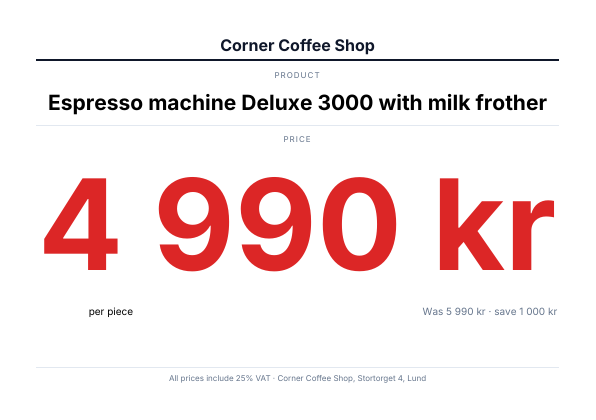
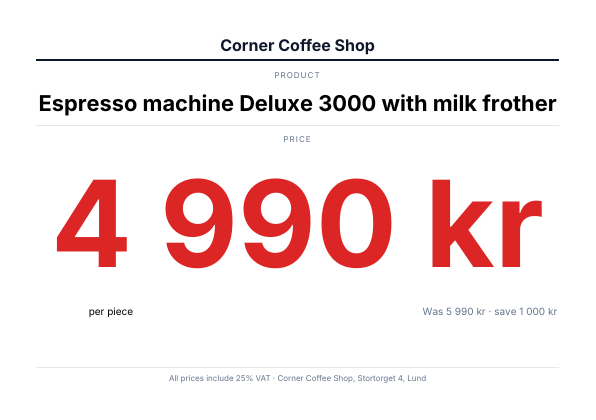
feat(forms): font_size: :fit, the fitted size written to /DA (#219)
* feat(forms): font_size: :fit, the fitted size written to /DA

font_size: :auto writes 0 Tf, which Firefox's editable input shows at
9 px. :fit sizes the value as :auto does and writes the number, so
every viewer reads a size. The price card example uses it, so its
render digest in spec/fixtures/renders/main.json is re-recorded (that
entry alone) and its docs PNG re-rendered.

Closes #218

Claude-Session: https://claude.ai/code/session_01MzExmEJTN1oyAQEHRhscNU

* docs: name font_size: :fit in the README's reference and testing sections

Also says which cells of the viewer table were not checked, and the
:fit spec formats the expected size as /DA does.

Refs #218

Claude-Session: https://claude.ai/code/session_01MzExmEJTN1oyAQEHRhscNU

diff --git a/docs/app/views/docs/pages/forms.rb b/docs/app/views/docs/pages/forms.rb
@@ -92,7 +92,7 @@ class Views::Docs::Pages::Forms < DocsUI::Page
           [ "at", "[x, y]", "nil", "A page position in points from the top left corner, outside the flow." ],
           [ "read_only", "Boolean", "false", [ :md, "The reader cannot change the value. A read-only field also keeps only its value's glyphs in the font; see [Appearance and fonts](#appearance-and-fonts)." ] ],
           [ "required", "Boolean", "false", "Sets the field's Required flag, which viewers use to highlight it and to check it when the form is submitted." ],
-          [ "font_size", "Numeric or :auto", "10", [ :md, "The size of the value a text field or select box shows, in points; `:auto` for the largest that fits. See [Alignment, colour and auto-size](#alignment-colour-and-auto-size)." ] ],
+          [ "font_size", "Numeric, :auto or :fit", "10", [ :md, "The size of the value a text field or select box shows, in points; `:auto` for the largest that fits, chosen again by a viewer when it redraws; `:fit` for that size written as a number. See [Alignment, colour and auto-size](#alignment-colour-and-auto-size)." ] ],
           [ "border", "Color", "\"#9CA3AF\"", [ :md, "The frame's stroke; `nil` for none. A signature field draws its rule in it." ] ],
           [ "background", "Color", "\"#FFFFFF\"", [ :md, "The frame's fill; `nil` for none." ] ],
           [ "radius", "Numeric", "2", "The frame's corner radius. A radio button is always a circle." ],
@@ -217,7 +217,7 @@ class Views::Docs::Pages::Forms < DocsUI::Page
       md <<~'MD'
         ```ruby
         text_style(weight: :bold) do
-          text_field "price", value: "4 990 kr", align: :center, color: "#DC2626", font_size: :auto,
+          text_field "price", value: "4 990 kr", align: :center, color: "#DC2626", font_size: :fit,
                               max_font_size: 120, height: 150, border: nil, background: nil
         end
         select "unit", options: ["per piece", "per kg"], value: "per piece", align: :center
@@ -234,38 +234,46 @@ class Views::Docs::Pages::Forms < DocsUI::Page
           [ "align", ":left, :center, :right", ":left", [ :md, "Written as `/Q` (1 or 2; nothing for `:left`). The value is placed within the field's box less its padding, each line of a `multiline:` value by its own width. A `comb:` field ignores it: its cells place each character." ] ],
           [ "color", "Color", "\"#000000\"", [ :md, "Any colour the gem takes. The colour operator of `/DA` (`0 g` for black, `rg` for RGB, `k` for CMYK) and the colour the value is painted in. Under `monochrome` it is checked like any other colour; under PDF/A a CMYK one is reported." ] ],
           [ "font_size: :auto", "", "", [ :md, "Writes `0 Tf` in `/DA`. The appearance draws the largest size, in tenths of a point, at which one line fits the field's height and width; a `comb:` field's widest character fits its cell; a `multiline:` value, wrapped to the width, fits the height." ] ],
-          [ "min_font_size", "Numeric", "4", [ :md, "With `font_size: :auto`: the smallest size drawn. A value that does not fit at it is clipped." ] ],
-          [ "max_font_size", "Numeric", "the height", [ :md, "With `font_size: :auto`: the largest size drawn." ] ]
+          [ "font_size: :fit", "", "", [ :md, "The size `:auto` draws, written in `/DA` as a number (`/F1 96 Tf`), so a viewer that redraws the field keeps it. A longer value typed into the field afterwards is clipped or scrolls, as in any fixed-size field, and an empty field is sized to its bound: a field left empty to be filled in wants `:auto`. `Inspector#layout` reports the number. A field placed in several places writes the first's size; each place draws its own." ] ],
+          [ "min_font_size", "Numeric", "4", [ :md, "With `font_size: :auto` or `:fit`: the smallest size drawn. A value that does not fit at it is clipped." ] ],
+          [ "max_font_size", "Numeric", "the height", [ :md, "With `font_size: :auto` or `:fit`: the largest size drawn." ] ]
         ]
       )
 
       md <<~'MD'
         `min_font_size:` and `max_font_size:` are not in the file: a viewer that redraws the field sizes
-        it by its own rule, and may draw a short value larger than the cap.
+        it by its own rule, and may draw a short value larger than the cap. With `:fit` the chosen size
+        is in the file, so a viewer draws the value no larger than the cap.
 
         ### What viewers do when they redraw
 
         Every viewer shows the appearance as stationery drew it. A viewer redraws a field from `/DA` and
         `/Q` when it opens a form with `NeedAppearances` (every render without a conformance level or a
-        signature) and after an edit. Read from each engine's source on 2026-10-01:
+        signature) and after an edit. Firefox draws two things: the appearance pdf.js generates from
+        `/DA` (`src/core/annotation.js`), which is what it prints, and an HTML input it shows while the
+        field is edited (`src/display/annotation_layer.js`, `_setTextStyle`). That input is set in the
+        browser's own face, never the PDF's, so a bold field shows regular text while it is edited; no
+        file can change that. Read from each engine's source on 2026-10-01:
 
-        | Viewer | `align:` (`/Q`) | `color:` | `font_size: :auto`, one line | `font_size: :auto`, `multiline:` |
-        | --- | --- | --- | --- | --- |
-        | Firefox (pdf.js) | Yes | Yes | Fits the height and the width, no floor or cap | Shrinks until the lines fit, no cap |
-        | Chrome, Edge (PDFium) | Yes; not a select's (`GenerateComboBoxAP` sets no alignment) | Yes | The largest of 4, 6, 8, 9, 10, 12, 14 … 144 pt that fits | 4 to 12 pt |
-        | Evince, Okular (poppler) | Yes | Yes | Fits the height and the width, whole points | The largest of 20 down to 1 pt that fits |
-        | MuPDF | Yes | Yes | Fits the width, capped at the height | 12 pt, not shrunk |
-        | Acrobat, Acrobat Reader | Not tested | Not tested | Reported: the size that fills the height, shrinking as the text grows | Not tested |
-        | Preview (macOS) | Not tested | Not tested | Not tested | Not tested |
+        | Viewer | `align:` (`/Q`) | `color:` | `font_size: :auto`, one line | `font_size: :auto`, `multiline:` | `font_size: :fit` or a number |
+        | --- | --- | --- | --- | --- | --- |
+        | Firefox (pdf.js), appearance | Yes | Yes | Fits the height and the width, no floor or cap | Shrinks until the lines fit, no cap | The number |
+        | Firefox (pdf.js), input while editing | Not checked | Not checked | 9 px (`DEFAULT_FONT_SIZE`), capped as a number is | 9 px, capped as a number is | The number, capped at (height − 2) ÷ 1.35, in the browser's face; `multiline:` caps each line's share of the height the same way |
+        | Chrome, Edge (PDFium) | Yes; not a select's (`GenerateComboBoxAP` sets no alignment) | Yes | The largest of 4, 6, 8, 9, 10, 12, 14 … 144 pt that fits | 4 to 12 pt | The number |
+        | Evince, Okular (poppler) | Yes | Yes | Fits the height and the width, whole points | The largest of 20 down to 1 pt that fits | The number, not shrunk |
+        | MuPDF | Yes | Yes | Fits the width, capped at the height | 12 pt, not shrunk | The number |
+        | Acrobat, Acrobat Reader | Not tested | Not tested | Reported: the size that fills the height, shrinking as the text grows | Not tested | Not tested |
+        | Preview (macOS) | Not tested | Not tested | Not tested | Not tested | Not tested |
 
-        Sources: pdf.js `src/core/annotation.js` (`_getAppearance`, `_computeFontSize`) and
-        `src/core/default_appearance.js`; PDFium `core/fpdfdoc/cpdf_generateap.cpp` and
+        Sources: pdf.js `src/core/annotation.js` (`_getAppearance`, `_computeFontSize`),
+        `src/core/default_appearance.js`, `src/display/annotation_layer.js` (`_setTextStyle`) and
+        `src/shared/util.js` (`LINE_FACTOR`); PDFium `core/fpdfdoc/cpdf_generateap.cpp` and
         `cpvt_variabletext.cpp` (`GetAutoFontSize`); poppler `poppler/Annot.cc` (`drawText`,
         `calculateFontSize`); MuPDF `source/pdf/pdf-appearance.c` (`write_variable_text`). Acrobat's is
         what its users report; Adobe documents no rule.
 
         `stationery inspect` and `Inspector#layout` report each field's `align:`, `font_size:` (`:auto`
-        for `0 Tf`) and `color:` (see [Testing](#testing)).
+        for `0 Tf`, the number for `:fit`) and `color:` (see [Testing](#testing)).
       MD
     end
   end

diff --git a/spec/stationery/forms_style_spec.rb b/spec/stationery/forms_style_spec.rb
@@ -155,16 +155,87 @@ RSpec.describe Stationery::Forms do
       expect(sizes(appearance_of(pdf, name)).first).to be > 20
     end
 
-    it "takes a positive number or :auto, and its bounds only with :auto" do
+    it "takes a positive number, :auto or :fit, and its bounds only with :auto or :fit" do
       expect { field_class.new(:text, "a", font_size: 0) }
-        .to raise_error(ArgumentError, "font_size: is a number of points or :auto, not 0")
+        .to raise_error(ArgumentError, "font_size: is a number of points, :auto or :fit, not 0")
       expect { field_class.new(:text, "a", font_size: "12") }
-        .to raise_error(ArgumentError, 'font_size: is a number of points or :auto, not "12"')
+        .to raise_error(ArgumentError, 'font_size: is a number of points, :auto or :fit, not "12"')
       expect { field_class.new(:text, "a", min_font_size: 8) }
-        .to raise_error(ArgumentError, "min_font_size: needs font_size: :auto")
+        .to raise_error(ArgumentError, "min_font_size: needs font_size: :auto or :fit")
       expect { field_class.new(:text, "a", font_size: :auto, max_font_size: -1) }
         .to raise_error(ArgumentError, /max_font_size: is a number of points/)
       expect { field_class.new(:text, "a", font_size: :auto, min_font_size: 20, max_font_size: 10) }
+        .to raise_error(ArgumentError, "min_font_size: 20 is above max_font_size: 10")
+    end
+  end
+
+  describe "font_size: :fit" do
+    def written(field) = field[:DA][/ ([\d.]+) Tf/, 1].to_f
+
+    it "writes the size it fits in /DA and draws it" do
+      field, stream = bare(:text, "a", value: "Hi", font_size: :fit)
+      size = tenth((20 - (2 * padding)) / glyph_box)
+
+      expect(field[:DA]).to eq("/Helv #{Stationery::PDF::Serializer.number(size)} Tf 0 g")
+      expect(sizes(stream)).to eq([size])
+    end
+
+    it "shrinks a long value to the width and writes that" do
+      value = "Espresso machine Deluxe 3000"
+      field, stream = bare(:text, "a", value:, font_size: :fit)
+
+      expect(written(field)).to eq(tenth(96 / helvetica(value, 1)))
+      expect(sizes(stream)).to eq([written(field)])
+    end
+
+    it "keeps within min_font_size: and max_font_size:, and writes the bound it hits" do
+      floored, = bare(:text, "a", value: "x" * 200, font_size: :fit, min_font_size: 6)
+      capped, = bare(:text, "a", value: "Hi", font_size: :fit, max_font_size: 12)
+
+      expect(floored[:DA]).to eq("/Helv 6 Tf 0 g")
+      expect(capped[:DA]).to eq("/Helv 12 Tf 0 g")
+    end
+
+    it "wraps a multiline value and writes the fitted size" do
+      field, stream = bare(:text, "a", value: "word " * 12, multiline: true, font_size: :fit, height: 60)
+
+      expect(stream.scan(/ Td$/).size).to be > 1
+      expect(written(field)).to be > 4
+      expect(sizes(stream).uniq).to eq([written(field)])
+    end
+
+    it "writes the first widget's size for a field placed twice" do
+      field = field_class.new(:text, "a", value: "Hi", font_size: :fit)
+      pdf = render do
+        canvas(height: 80) do |canvas, rect|
+          canvas.widget(field, rect.x, rect.y, 100, 20)
+          canvas.widget(field, rect.x, rect.y + 30, 100, 40)
+        end
+      end
+      dictionary = form_fields(pdf).fetch("a")
+      short, tall = dictionary[:Kids].map { |kid| sizes(appearance_of(pdf, kid)).first }
+
+      expect(written(dictionary)).to eq(short)
+      expect(tall).to be > short
+    end
+
+    it "writes the largest size for an empty value" do
+      field = field_class.new(:text, "a", value: "", font_size: :fit, max_font_size: 14)
+
+      expect(Stationery::Forms::Appearance.new(field, 100, 40).default_appearance).to eq("/Helv 14 Tf 0 g")
+    end
+
+    it "sizes a select's value and writes it" do
+      pdf = render { select "unit", options: %w[kg piece], value: "piece", font_size: :fit, height: 30 }
+      unit = form_fields(pdf).fetch("unit")
+
+      expect(written(unit)).to be > 10
+      expect(sizes(appearance_of(pdf, unit)).first).to eq(written(unit))
+    end
+
+    it "takes its bounds, and refuses a minimum above the maximum" do
+      expect { field_class.new(:text, "a", font_size: :fit, min_font_size: 8, max_font_size: 20) }.not_to raise_error
+      expect { field_class.new(:text, "a", font_size: :fit, min_font_size: 20, max_font_size: 10) }
         .to raise_error(ArgumentError, "min_font_size: 20 is above max_font_size: 10")
     end
   end

diff --git a/spec/integration/price_card_spec.rb b/spec/integration/price_card_spec.rb
@@ -7,23 +7,27 @@ RSpec.describe "the example price card" do
   let(:pdf) { document.to_pdf }
   let(:fields) { inspect_pdf(pdf).layout[:pages].first[:fields] }
 
+  def size_in(operators) = operators[/ ([\d.]+) Tf/, 1].to_f
+
   it "fits on one A5 landscape page without warnings" do
     expect(pdf).to have_page_count(1)
     expect(document).to have_no_warnings
   end
 
-  it "writes the alignment, colour and auto-size a viewer redraws an edit with" do
+  it "writes the alignment, colour and the fitted size a viewer redraws an edit with" do
     product, price = form_fields(pdf).values_at("product", "price")
 
-    expect(product).to include(Q: 1, DA: match(%r{\A/F\d+ 0 Tf 0 g\z}))
-    expect(price).to include(Q: 1, DA: match(%r{\A/F\d+ 0 Tf 0.8627 0.149 0.149 rg\z}))
+    expect(product).to include(Q: 1, DA: match(%r{\A/F\d+ [\d.]+ Tf 0 g\z}))
+    expect(price).to include(Q: 1, DA: match(%r{\A/F\d+ 120 Tf 0.8627 0.149 0.149 rg\z}))
+    [product, price].each { |field| expect(size_in(field[:DA])).to eq(size_in(appearance_of(pdf, field))) }
     expect(pdf).to have_pdf_text("4 990 kr", fields: true)
   end
 
   it "reports each field's alignment, size and colour" do
     expect(fields.map { |field| field.slice(:name, :align, :font_size, :color) })
-      .to eq([{ name: "product", align: :center, font_size: :auto, color: "#000000" },
-              { name: "price", align: :center, font_size: :auto, color: "#DC2626" },
+      .to eq([{ name: "product", align: :center, font_size: size_in(form_fields(pdf)["product"][:DA]),
+                color: "#000000" },
+              { name: "price", align: :center, font_size: 120, color: "#DC2626" },
               { name: "unit", align: :center, font_size: 10, color: "#000000" },
               { name: "note", align: :right, font_size: 10, color: "#64748B" }])
   end
@@ -31,7 +35,7 @@ RSpec.describe "the example price card" do
   it "draws the price as large as its field allows, and the product's name shrunk to its width" do
     price, product = form_fields(pdf).values_at("price", "product").map { |field| appearance_of(pdf, field) }
 
-    expect(price[%r{ ([\d.]+) Tf}, 1].to_f).to eq(120)
-    expect(product[%r{ ([\d.]+) Tf}, 1].to_f).to be_between(14, 32).exclusive
+    expect(size_in(price)).to eq(120)
+    expect(size_in(product)).to be_between(14, 32).exclusive
   end
 end

diff --git a/examples/price_card.rb b/examples/price_card.rb
@@ -1,12 +1,14 @@
 # frozen_string_literal: true
 
 # A shop-window price card a person fills in on screen and prints: the
-# product's name centred and shrunk to fit its line (`font_size: :auto`),
-# the price large, centred and red, the price per unit right-aligned in grey
-# and a select of units. The fields have no border and no background, so the
-# printed card shows the values alone; a viewer that redraws a field after
-# an edit keeps its alignment, colour and auto-size (/Q and /DA). Run it to
-# write examples/price_card.pdf:
+# product's name centred and shrunk to fit its line, the price large,
+# centred and red, the price per unit right-aligned in grey and a select of
+# units. The name and price are fitted by the gem and the size it chose is
+# written to the file (`font_size: :fit`), so every viewer shows them at
+# that size. The fields have no border and no background, so the printed
+# card shows the values alone; a viewer that redraws a field after an edit
+# keeps its alignment, colour and size (/Q and /DA). Run it to write
+# examples/price_card.pdf:
 #
 #   ruby -Ilib examples/price_card.rb
 #   ruby -Ilib exe/stationery render examples/price_card.rb
@@ -51,14 +53,14 @@ class ExamplePriceCard < Stationery::Document
     spacer 10
     label "Product"
     text_style(weight: :bold) do
-      text_field "product", value: @product, height: 44, font_size: :auto, max_font_size: 32, align: :center,
+      text_field "product", value: @product, height: 44, font_size: :fit, max_font_size: 32, align: :center,
                             tooltip: "Product", **BARE
     end
     rule height: 0.5, color: HAIRLINE
     spacer 10
     label "Price"
     text_style(weight: :bold) do
-      text_field "price", value: @price, height: 150, font_size: :auto, max_font_size: 120, align: :center,
+      text_field "price", value: @price, height: 150, font_size: :fit, max_font_size: 120, align: :center,
                           color: SALE, tooltip: "Price", **BARE
     end
     spacer 6

diff --git a/lib/stationery/forms/field.rb b/lib/stationery/forms/field.rb
@@ -17,7 +17,7 @@ module Stationery
       DEFAULTS = { font_size: 10, read_only: false, required: false, border: "#9CA3AF", background: "#FFFFFF",
                    radius: 2, tooltip: nil }.freeze
       # What a text field and a select take beyond the defaults: where the
-      # value sits, its colour, and the bounds of `font_size: :auto`.
+      # value sits, its colour, and the bounds of `font_size: :auto` or `:fit`.
       BOUNDS = %i[min_font_size max_font_size].freeze
       STYLE = [:align, :color, *BOUNDS].freeze
       OPTIONS = {
@@ -55,6 +55,10 @@ module Stationery
       def font_size = @options[:font_size]
       # Whether the value is drawn at the largest size that fits (`font_size: :auto`).
       def auto_size? = font_size == :auto
+      # Whether it is the size `:auto` would draw, written as a number (`font_size: :fit`).
+      def fit? = font_size == :fit
+      # Whether the gem chooses the size the value is drawn at (`:auto` or `:fit`).
+      def sized? = auto_size? || fit?
       def min_font_size = @options[:min_font_size]
       def max_font_size = @options[:max_font_size]
       def align = @options.fetch(:align, :left)
@@ -150,10 +154,10 @@ module Stationery
       def validate_style
         raise ArgumentError, "align: is :left, :center or :right, not #{align.inspect}" unless ALIGNMENTS.key?(align)
 
-        points(:font_size, " or :auto") unless auto_size?
+        points(:font_size, ", :auto or :fit") unless sized?
         BOUNDS.each do |key|
           next unless @options.key?(key)
-          raise ArgumentError, "#{key}: needs font_size: :auto" unless auto_size?
+          raise ArgumentError, "#{key}: needs font_size: :auto or :fit" unless sized?
 
           points(key)
         end

diff --git a/lib/stationery/forms/appearance.rb b/lib/stationery/forms/appearance.rb
@@ -21,7 +21,7 @@ module Stationery
       SIGNATURE = { rule: 14, label_size: 7, label_baseline: 4, label_gray: 0.42 }.freeze
 
       # The size the value is drawn at: the field's, or what `font_size:
-      # :auto` fits (see AutoSize).
+      # :auto` or `:fit` fits (see AutoSize).
       attr_reader :size
 
       # `resources` are the render's, where the field's fonts get their names.
@@ -30,7 +30,7 @@ module Stationery
         @width = width
         @height = height
         @type = field.typeface.with(resources)
-        @size = field.auto_size? ? AutoSize.new(field, @type, width, height).size : field.font_size
+        @size = field.sized? ? AutoSize.new(field, @type, width, height).size : field.font_size
         @contents = contents
         keep
       end
@@ -41,8 +41,9 @@ module Stationery
       # The resource names of the fonts it draws with or keeps for editing.
       def font_names = @type.names
 
-      # What the field's /DA says: the font, size (0 for auto) and colour a
-      # viewer redraws the value with. nil for a field without variable text.
+      # What the field's /DA says: the font, size (0 for `:auto`, the fitted
+      # number for `:fit`) and colour a viewer redraws the value with. nil for
+      # a field without variable text.
       def default_appearance
         return unless @field.variable_text?
 

diff --git a/docs/app/views/docs/pages/examples.rb b/docs/app/views/docs/pages/examples.rb
@@ -48,8 +48,8 @@ class Views::Docs::Pages::Examples < DocsUI::Page
      "option is on [Forms](/docs/forms)." ],
     [ "Price card", "price_card",
      "A shop-window price card filled in on screen and printed: fields without a frame whose values are " \
-     "centred (`align: :center`), coloured (`color:`) and sized to fit (`font_size: :auto`), written to the " \
-     "file as `/Q` and `/DA` so a viewer redraws an edit the same way. See [Forms](/docs/forms)." ],
+     "centred (`align: :center`), coloured (`color:`) and sized to fit (`font_size: :fit`, the size written " \
+     "to the file), written as `/Q` and `/DA` so a viewer redraws an edit the same way. See [Forms](/docs/forms)." ],
     [ "Magazine article", "article",
      "Floats: a photo floated left with justified text wrapping beside it and continuing below, a pull " \
      "quote floated right between two paragraphs, and an image floated by CSS inside `html`. Tagged: the " \

diff --git a/spec/stationery/testing/inspector_layout_spec.rb b/spec/stationery/testing/inspector_layout_spec.rb
@@ -93,6 +93,14 @@ RSpec.describe Stationery::Testing::Inspector, "#layout" do
     expect(first[:fields].first).to include(align: :left, font_size: 10, color: "#000000")
   end
 
+  it "reports a font_size: :fit field's size as the number written in /DA" do
+    doc = SpecDocument.build { text_field "total", value: "9 kr", font_size: :fit, height: 40 }
+    field = described_class.new(doc).layout[:pages].first[:fields].first
+    written = form_fields(doc.to_pdf).fetch("total")[:DA][/ ([\d.]+) Tf/, 1].to_f
+
+    expect(field[:font_size]).to be_a(Numeric).and(eq(written)).and(be > 10)
+  end
+
   it "names the kind of each button and the state that turns it on" do
     doc = SpecDocument.build do
       checkbox "terms", checked: true, label: "I accept"

diff --git a/lib/stationery/elements/forms.rb b/lib/stationery/elements/forms.rb
@@ -9,8 +9,8 @@ module Stationery
   module Elements
     # A text input. `width:` is :full or points; `multiline:`, `max_length:`,
     # `comb:` (a cell count, or true with max_length:), `read_only:`,
-    # `required:`, `font_size:` (points, or :auto with `min_font_size:` and
-    # `max_font_size:`), `align:` (:left, :center, :right), `color:`,
+    # `required:`, `font_size:` (points, or :auto or :fit with `min_font_size:`
+    # and `max_font_size:`), `align:` (:left, :center, :right), `color:`,
     # `border:`, `background:` and `radius:`.
     def text_field(name, value: "", width: :full, height: 22, at: nil, **)
       field_node(Forms::Field.new(:text, name, value: value.to_s, typeface: field_typeface, **), width:, height:, at:)

diff --git a/CHANGELOG.md b/CHANGELOG.md
@@ -2,6 +2,7 @@
 
 ## Unreleased
 
+- Text fields and selects take `font_size: :fit` (#218): the size `font_size: :auto` draws (one line, a `comb:` field's cells or a `multiline:` value, within `min_font_size:` and `max_font_size:`), written in `/DA` as that number instead of `0`, so a viewer that redraws the field keeps the size; Firefox's editable input, which showed `:auto` at 9 px, now shows the number, capped at the field's height ÷ 1.35 and set in the browser's own face. A longer value typed afterwards does not shrink, and an empty field is written at its largest size, so a field left empty to be filled in wants `:auto`. A field placed in several places writes its first widget's size. `Inspector#layout` and `stationery inspect` report the number. `text_field "price", value: "4 990 kr", font_size: :fit, max_font_size: 96, height: 110`. The price card example uses it. A field that does not is written as it was. `Forms::Field`, `Forms::Appearance`.
 - Text fields and selects take `align:`, `color:` and `font_size: :auto` (#216): `align:` (`:left`, `:center`, `:right`) is written as `/Q`, `color:` (any colour the gem takes, black by default) as the colour operator of `/DA`, and `font_size: :auto` as `0 Tf`, within `min_font_size:` (4 by default) and `max_font_size:` (the field's height by default). The gem's own appearance aligns, colours and sizes the value the same way, so a field looks the same before and after a viewer redraws it: one line at the largest tenth of a point that fits the field's height and width, a `comb:` field's widest character in its cell, a `multiline:` value wrapped to the width and fitted to the height. `comb:` ignores `align:`. `text_field "price", value: "4 990 kr", align: :center, color: "#DC2626", font_size: :auto, height: 110`. A field that uses none of them is written as it was. Under `monochrome` a `color:` is checked like any other colour (`Warnings::NotMonochrome`, or black with `snap: true`); `Inspector#layout` and `stationery inspect` report a text field's or choice's `align:`, `font_size:` and `color:`. A price card example (`examples/price_card.rb`). `Forms::Field`, `Forms::Appearance`, `Forms::AutoSize`, `Testing::Layout`. **Behaviour change:** under PDF/A, a CMYK colour in a form field's appearance or `/DA` is reported as `Warnings::ConformanceIssue` (`CMYK colour in form field "price"`), its `border:` and `background:` included, which were not checked before.
 - The skill (`stationery skill install`) and the README it is written from are corrected (#209): the `max_pages` example renders before it reads `warnings`; a preview reads `params.fetch("id") { … }`, so its default is not looked up when `id` is given; the streamed-table example preloads what its rows read; the invoice recipe computes VAT with `Rational`, not Float, and says when a document may derive its totals; the report recipe escapes the chart labels it writes into SVG (`ERB::Util.html_escape`); the form recipe gives its fields a `tooltip:` and says a field without one is announced by its field name; the label recipe sizes a native QR code by the printer's dpi (a module of at most 720 / dpi points) and says what a barcode left in the picture loses. Statements that overstated are qualified: `encrypt` under a conformance level raises `ArgumentError`, not `ConformanceError`; `NeedAppearances` is left out under a conformance level or a signature; what the untrusted-input guarantees cover; and what a B-T timestamp proves once the certificate has expired. Run `stationery skill install` again to update an installed copy.
 - A tagged render is written with object streams (#206): its structure elements, and every other object that is not a stream, are packed 200 to a deflated `/Type /ObjStm`, with a cross-reference stream in place of the table and trailer (ISO 32000-1, 7.5.7 and 7.5.8). A table of 300 rows, 8 pages, is 115 KB tagged where it was 501 KB, 36 objects where it was 4,544; the tagged examples are 9 to 65% smaller. It is on by default for a render that is tagged (`tagged`, `to_pdf(tagged: true)`, `conformance :pdf_ua1`), and `object_streams false` at class level or `to_pdf(object_streams: false)` writes the classic table for a reader that cannot read object streams; `to_pdf(object_streams: true)` packs an untagged render too. Streams, the `/Encrypt` dictionary and a signature's dictionary stay out, so an encrypted, a signed and an incremental render are packed too, and PDF/A-2b, PDF/A-3b and PDF/UA-1 pass veraPDF packed. `to_png` and `to_zpl` refuse `object_streams:` as a PDF option. `Document#page_count` is how many pages the last render laid out, which `stationery render` now reports. In `PDF::Writer` (`object_streams:`, `add_unpacked`) and `PDF::ObjectStreams`.

diff --git a/README.md b/README.md
@@ -139,7 +139,7 @@ ls "$(bundle show stationery)/examples"      # or: gem contents stationery
 | `keep_with_next: true \| points` | On `text`, `box` or `group`: never end a page with this node; with a number, keep at least that many points of what follows with it. |
 | `text_style(**style) { }` | Default text style for a block. |
 | `canvas(height:) { \|canvas, rect\| }` | Draw directly: rectangles, rounded rectangles, circles, lines, Bézier paths, clipping, images, links; `rotate(degrees, around:) { }` and `transform([a, b, c, d, e, f]) { }` blocks. |
-| `text_field(name, value:, width:, height:, multiline:, max_length:, comb:, read_only:, required:, font_size:, min_font_size:, max_font_size:, align:, color:, border:, background:, radius:, tooltip:, at:)` | An interactive text input (AcroForm). `width:` is `:full` or points; `font_size:` is points or `:auto`; `align:` is `:left`, `:center` or `:right`; dotted names (`"address.city"`) group fields. See [Forms](#forms). |
+| `text_field(name, value:, width:, height:, multiline:, max_length:, comb:, read_only:, required:, font_size:, min_font_size:, max_font_size:, align:, color:, border:, background:, radius:, tooltip:, at:)` | An interactive text input (AcroForm). `width:` is `:full` or points; `font_size:` is points, `:auto` or `:fit`; `align:` is `:left`, `:center` or `:right`; dotted names (`"address.city"`) group fields. See [Forms](#forms). |
 | `checkbox(name, checked:, size:, label:, at:)` | An interactive check box, with an optional label drawn to its right. |
 | `radio(name, value, checked:, size:, label:, at:)` | One choice of a radio group: radios sharing `name` form one field whose value is the checked `value`. |
 | `select(name, options:, value:, width:, height:, editable:, font_size:, min_font_size:, max_font_size:, align:, color:, at:)` | A drop-down (combo box); `editable: true` also accepts typed values. |
@@ -418,8 +418,12 @@ signature_field "signature", label: "Signature of the applicant"
   `font_size: :auto` writes `0 Tf` and the appearance draws the largest size, in tenths of a point,
   at which one line fits the field's height and width (a `comb:` field's cells; a `multiline:`
   field wrapped to its width and height), within `min_font_size:` (4 by default) and
-  `max_font_size:` (the height by default). A `comb:` field ignores `align:`, its cells place each
-  character. Under `monochrome`, `color:` is checked like any other colour; under PDF/A a CMYK one
+  `max_font_size:` (the height by default). `font_size: :fit` sizes the value the same way and writes
+  the number it chose in `/DA`, so every viewer reads a size, where `0 Tf` showed 9 px in Firefox's
+  editable input (which still caps a size at the field's height ÷ 1.35 and sets it in its own face).
+  A longer value typed afterwards does not shrink, and an empty field is sized to its bound, so a
+  field left empty to be filled in wants `:auto`. `min_font_size:` and `max_font_size:` go with
+  either. A `comb:` field ignores `align:`, its cells place each character. Under `monochrome`, `color:` is checked like any other colour; under PDF/A a CMYK one
   is reported. A field that uses none of them is written as it was.
 - A radio group's value is its checked choice's `value` (`Off` when none is checked); a select box
   lists its `options:` and draws the chosen `value`; a signature field is left unsigned for the
@@ -1882,7 +1886,7 @@ own; lines read top to bottom, then left to right. An image is `{ x:, y:, width:
 [w, h] }` in the order drawn (the rectangle it fills, before any clip); a link has its `uri:`, or the
 `page:` and `top:` it goes to; a field has its full `name:`, `type:` (`:text`, `:choice`,
 `:checkbox`, `:radio`, `:button`, `:signature`), `value:`, for a button the `state:` that turns
-it on, and for a text field or a choice the `align:`, `font_size:` (`:auto` for `0 Tf`) and `color:`
+it on, and for a text field or a choice the `align:`, `font_size:` (`:auto` for `0 Tf`, the number for `:fit`) and `color:`
 (`"#RRGGBB"`) its value is drawn in. `outline` is the bookmarks as `{ title:, page:, top:, children: }`. `metadata` leaves out the
 dates, which change with every render, so two renders of one document have the same layout.
 `warnings` are the render's messages when the subject is a document.
